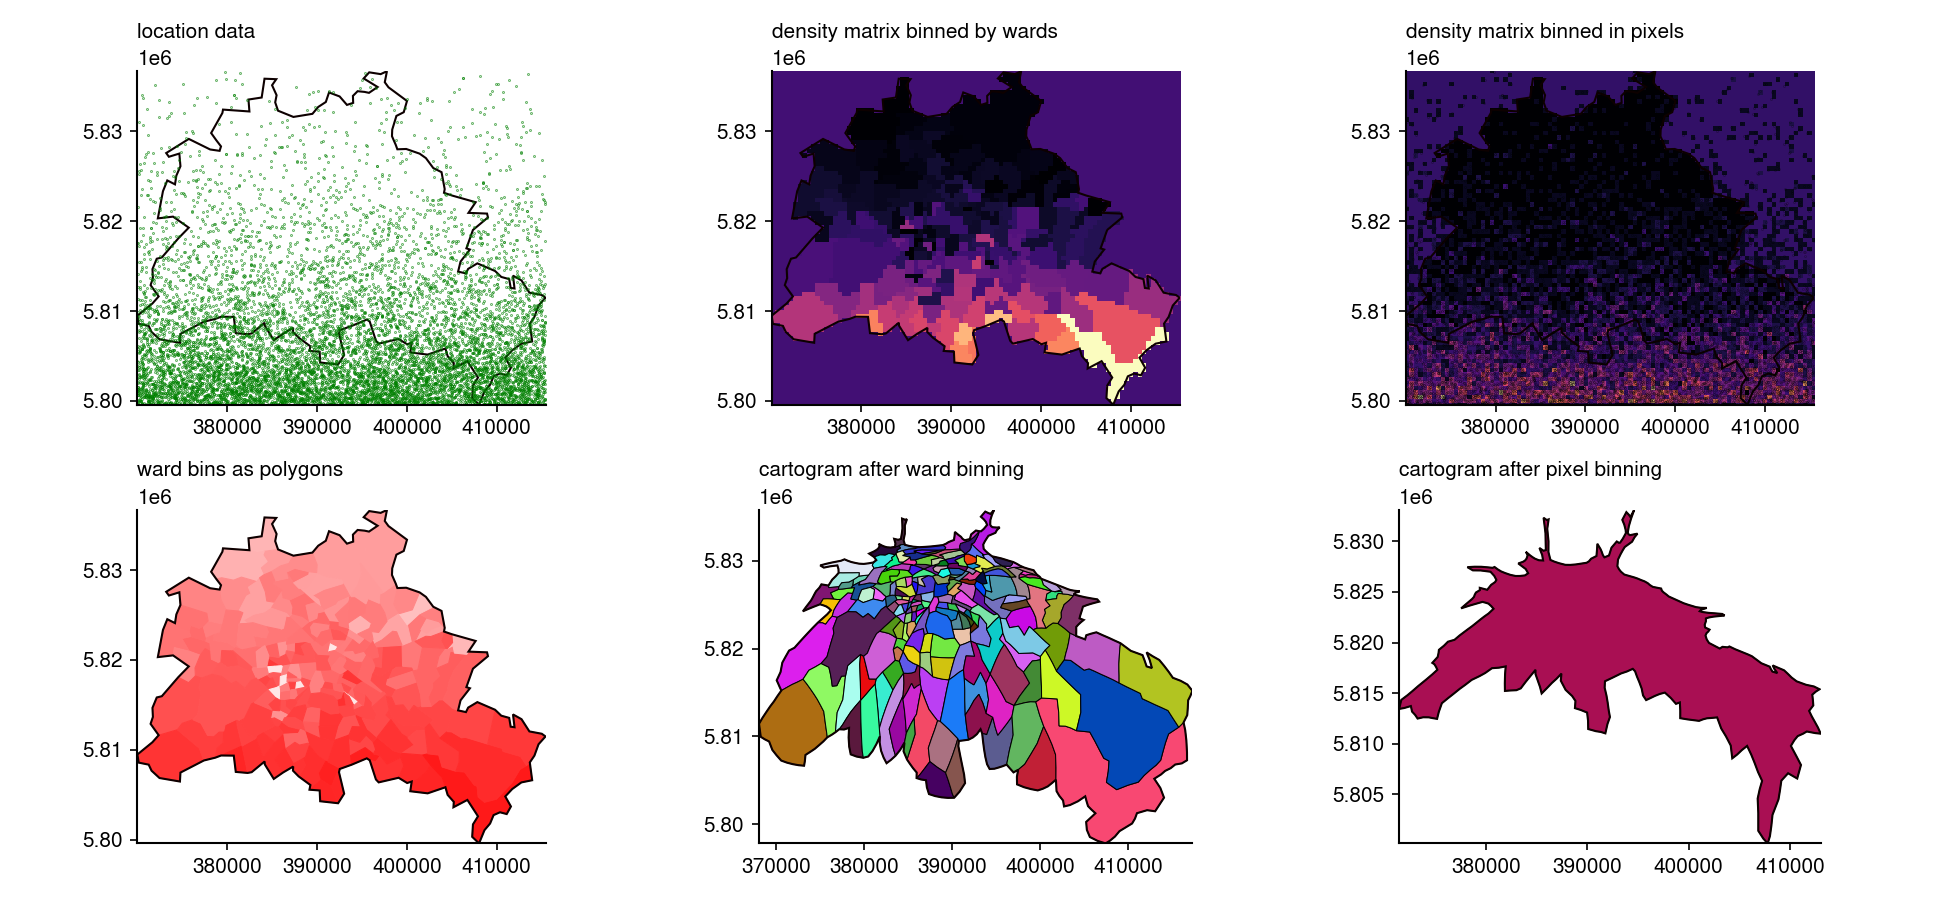
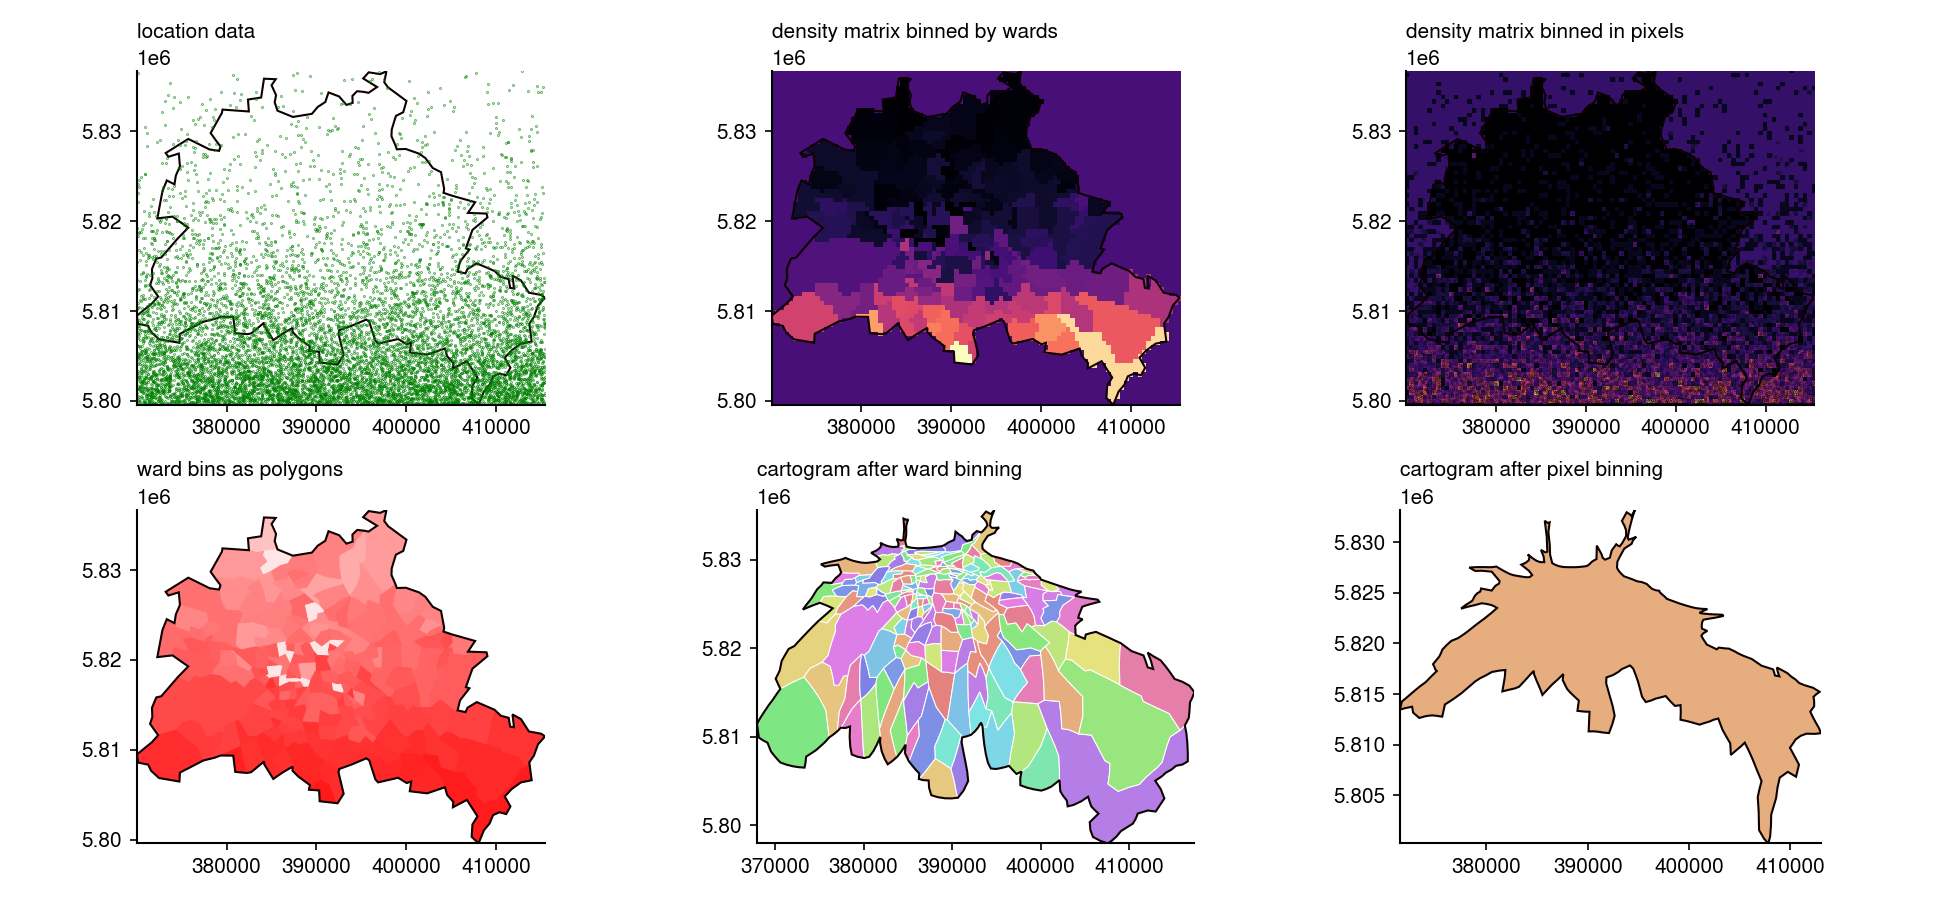
Use harmonious random colors in berlin.py demo
Replace garish random RGB colors with HSV-based colors that have
consistent saturation and brightness, making them visually cohesive
while still distinguishing individual wards.

🤖 Generated with [Claude Code](https://claude.com/claude-code)

diff --git a/sandbox/berlin.py b/sandbox/berlin.py
@@ -6,6 +6,15 @@ from shapely.geometry import Polygon
 import pycartogram
 
 import matplotlib.pyplot as pl
+import matplotlib.colors as mcolors
+from colorsys import hsv_to_rgb
+
+def random_harmonious_colors(n, saturation=0.5, value=0.85, seed=None):
+    """Generate n random colors with consistent saturation and brightness."""
+    if seed is not None:
+        np.random.seed(seed)
+    hues = np.random.random(n)
+    return [hsv_to_rgb(h, saturation, value) for h in hues]
 
 def get_random_exponential(carto):
 
@@ -85,9 +94,12 @@ carto.plot(show_new_wards=False,
            ax=ax[1,0])
 ax[1,0].set_title('ward bins as polygons')
 
+# Random but harmonious colors (pastel-ish, same saturation/brightness)
+ward_colors = random_harmonious_colors(len(berlin_wards), saturation=0.45, value=0.9, seed=42)
+
 carto.plot(
-        ward_colors = np.random.random((len(berlin_wards),3)),
-        edge_colors = 'k',
+        ward_colors = ward_colors,
+        edge_colors = 'w',
         ax=ax[1,1])
 ax[1,1].set_title('cartogram after ward binning')
 
@@ -114,8 +126,8 @@ carto_point.compute(verbose=True)
 carto_point.transform_wards(verbose=True)
 
 carto_point.plot(
-        ward_colors = np.random.random((len(berlin_wards),3)),
-        edge_colors = 'k',
+        ward_colors = random_harmonious_colors(1, saturation=0.45, value=0.9, seed=7),
+        edge_colors = 'w',
         ax=ax[1,2])
 ax[1,2].set_title('cartogram after pixel binning')
 
